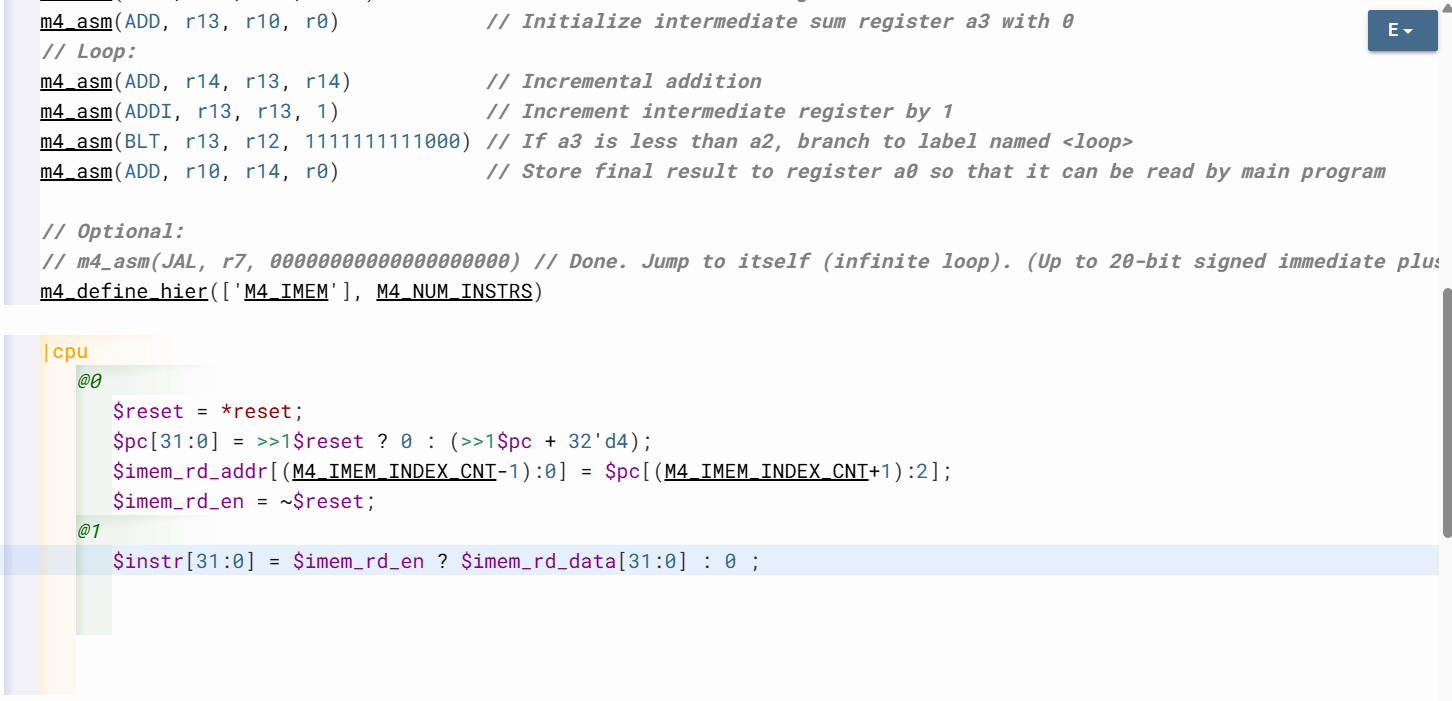
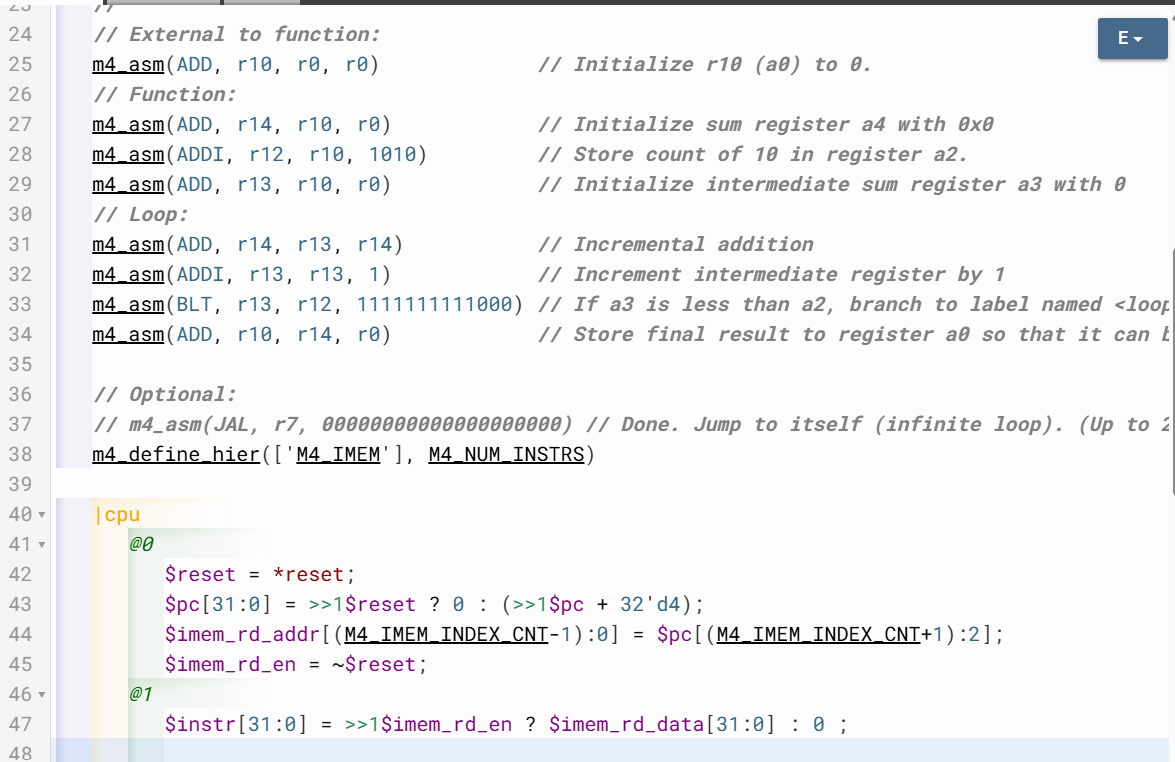
Add L41

Changed region(s): [[0.0, 0.0, 1.0, 1.0], [0.3064, 0.2996, 0.337, 0.3295]]

diff --git a/day4/40-RV_D4SK2_L4_Lab_For_Instruction_Immediate_Decode_Logic_For_RV-ISBUJ.md b/day4/40-RV_D4SK2_L4_Lab_For_Instruction_Immediate_Decode_Logic_For_RV-ISBUJ.md
@@ -1,2 +1,128 @@
 # 40-RV_D4SK2_L4_Lab_For_Instruction_Immediate_Decode_Logic_For_RV-ISBUJ
 
+## Overview
+
+This lecture implements immediate decode logic for RV-ISBUJ instruction formats. The lecture explains how immediate values are extracted from RISC-V instructions. The lecture focuses on:
+
+- immediate field construction
+- instruction-type dependent decoding
+- sign extension
+- concatenation
+- bit replication
+- 32-bit immediate generation
+
+Immediate operands are required by:
+  - ALU operations
+  - loads/stores
+  - branches
+  - jumps
+  - upper immediate instructions
+
+  ---
+
+  # Immediate Fields Depend On Instruction Type
+
+Based on the instruction type, the instruction will have immediate bits in different locations.
+
+---
+
+# RV-ISBUJ Formats
+
+| Type | Meaning         |
+| ---- | --------------- |
+| I    | Immediate       |
+| S    | Store           |
+| B    | Branch          |
+| U    | Upper Immediate |
+| J    | Jump            |
+
+Each format places immediate bits in different instruction locations. However, regardless of instruction type final immediate always becomes a 32-bit value. Not all instructions are going to have immediate values.
+Example - R-type instructions do not use immediates.
+
+## Immediate Decode Multiplexing
+
+The decoder effectively performs:
+```text
+If instruction type is X,
+use immediate construction Y.
+```
+
+## Sign Extension
+
+We make 21 copies of instruction bit 31. This is sign extension. Bit 31 represents sign bit for signed immediates. To preserve negative values upper bits are replicated.
+
+## Concatenation
+
+The lecture introduces concatenation syntax:
+```text
+{a,b,c}
+```
+This joins multiple bit fields into one larger field.
+
+## Bit Replication Syntax
+
+The lecture introduces:
+```text
+{21{instr[31]}}
+```
+Meaning - create 21 copies of instr[31].
+
+## Decode Logic Flow
+
+The immediate decode process becomes:
+```text
+Instruction →
+Instruction Type →
+Immediate Bit Selection →
+Sign Extension →
+32-bit Immediate
+```
+
+![Immediate Decode](images/lec40/Immediate_Decode.png)
+
+![Immediate Decode TLV](images/lec40/Immediate_Decode_TLV.png)
+
+[Click Here To Open the Decode implementation in Makerchip](https://makerchip.com/v132/ide/~0ADf9hjY/p-0vghED)
+
+---
+
+# Hardware Perspective
+
+Immediate values are reconstructed entirely through combinational bit manipulation logic. The CPU does not "compute" immediates mathematically. Instead it:
+
+- rearranges bits
+- concatenates fields
+- performs sign extension
+
+using combinational wiring logic.
+
+---
+
+# Key Learning Outcome
+
+After this lecture, the learner understands:
+
+- immediate field extraction
+- sign extension
+- concatenation syntax
+- replication syntax
+- RV-ISBUJ immediate formats
+- instruction-type dependent decode
+- 32-bit immediate generation
+- combinational immediate construction
+- bit manipulation
+
+---
+
+# Notes
+
+This lecture introduces the immediate operand. The processor now gains the ability to:
+
+- interpret constants
+- compute offsets
+- perform address calculations
+- execute PC-relative instructions
+
+which are all essential for full instruction execution.
+
+ 

diff --git a/day4/39-RV_D4SK2_L3_Lab_For_RV_Instruction_Types_IRSBJU_Decode_Logic.md b/day4/39-RV_D4SK2_L3_Lab_For_RV_Instruction_Types_IRSBJU_Decode_Logic.md
@@ -69,6 +69,8 @@ The decoder effectively behaves like large combinational pattern matcher. Instru
 
 ---
 
+![Instruction Type Decode](images/lec39/Instruction_Type_Decode.png)
+
 ![Decode TLV](images/lec39/Decode_TLV.png)
 
 [Click Here To Open the Decode implementation in Makerchip](https://makerchip.com/v132/ide/~0ADf9hjY/p-0vghED)
